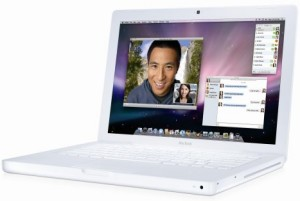
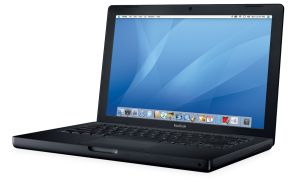
New devices

diff --git a/assets/css/main.css b/assets/css/main.css
@@ -259,6 +259,7 @@ table li {
     margin: 0 auto;
     height: 120px;
     width: auto;
+    max-width: 100%;
 }
 
 .device-specs {

diff --git a/_devices/Samsung/Q1u.md b/_devices/Samsung/Q1u.md
@@ -1,0 +1,20 @@
+---
+layout: device
+title: Samsung Q1 Ultra
+manufacturer: Samsung
+type: Tablet
+tags: computer tablet umpc
+image: Q1u.jpg
+spec-cpu: Intel Stealey A110 (800 MHz)
+spec-chipset: Intel 915
+spec-gpu: Intel GMA 950
+spec-display: 7" 1024x600 LCD LED
+spec-touch: Resistive (USB eGalaxTouch)
+spec-audio: Realtek HD Audio <br>
+    Stereo speakers, dual microphones, retasking on jack
+spec-ram: 1 GB DDR2 SO-DIMM
+spec-storage: 64 GB SSD in mSATA to IDE ZIF adapter
+spec-wlan: 802.11 b/g Atheros Mini PCIe card
+spec-bt: 2.0 + EDR Broadcom
+spec-battery: 6-cell extended Samsung battery
+---

diff --git a/_devices/Apple/MacBook/2008.md b/_devices/Apple/MacBook/2008.md
@@ -1,0 +1,19 @@
+---
+layout: device
+title: MacBook (13" Early 2008)
+release-date: 2008
+image: images/2008.jpg
+manufacturer: Apple
+brand: MacBook
+type: Laptop
+tags: computer laptop
+spec-color: White
+spec-ram: 1 GB DDR2
+spec-cpu: Intel Core 2 Duo T8100 @ 2.1 GHz
+spec-gpu: Intel GMA X3100
+spec-storage: 160 GB SATA HDD
+spec-display: 13.3" 1280x800 TN (CCFL)
+model: A1181 2242
+links: |
+    - [EveryMac](https://everymac.com/systems/apple/macbook/specs/macbook-core-2-duo-2.1-white-13-early-2008-penryn-specs.html)
+---

diff --git a/_devices/Apple/Mac/mini2009.md b/_devices/Apple/Mac/mini2009.md
@@ -1,0 +1,18 @@
+---
+layout: device
+title: Mac mini (Late 2009)
+release-date: 2009
+image: images/mini2009.jpg
+manufacturer: Apple
+brand: Mac
+type: Laptop
+tags: computer mini-pc
+spec-color: White
+spec-ram: 4 GB DDR3 (upgraded)
+spec-cpu: Intel Core 2 Duo P7550 @ 2.26 GHz
+spec-gpu: NVIDIA GeForce 9400M
+spec-storage: 250 GB SATA HDD (upgraded)
+model: A1283 2336
+links: |
+    - [EveryMac](https://everymac.com/systems/apple/mac_mini/specs/mac-mini-core-2-duo-2.26-late-2009-specs.html)
+---

diff --git a/_devices/Apple/MacBook/2007.md b/_devices/Apple/MacBook/2007.md
@@ -1,9 +1,19 @@
 ---
 layout: device
 title: MacBook (13" Mid 2007)
+release-date: 2007
 image: images/2007.jpg
 manufacturer: Apple
 brand: MacBook
 type: Laptop
 tags: computer laptop
+spec-color: Black
+spec-ram: 2 GB DDR2 (upgraded)
+spec-cpu: Intel Core 2 Duo T7400 @ 2.16 GHz
+spec-gpu: Intel GMA 950
+spec-storage: 160 GB SATA HDD
+spec-display: 13.3" 1280x800 TN (CCFL)
+model: A1181 2139
+links: |
+    - [EveryMac](https://everymac.com/systems/apple/macbook/specs/macbook-core-2-duo-2.16-black-13-mid-2007-specs.html)
 ---

diff --git a/_devices/Apple/iPhone/3G.md b/_devices/Apple/iPhone/3G.md
@@ -1,0 +1,9 @@
+---
+layout: device
+title: iPhone 3G
+image: images/3G.jpg
+manufacturer: Apple
+brand: iPhone
+type: Smartphone
+tags: smartphone
+---

diff --git a/_devices/HTC/HD2-2.md b/_devices/HTC/HD2-2.md
@@ -1,0 +1,9 @@
+---
+layout: device
+title: HD2 (2)
+image: images/HD2.jpg
+manufacturer: HTC
+type: Smartphone
+tags: mobile-device smartphone pocket-pc
+spec-os: Windows Mobile 6.5
+---

diff --git a/_devices/Apple/iPad/2.md b/_devices/Apple/iPad/2.md
@@ -11,5 +11,5 @@ spec-cpu: Apple A5
 spec-display: 9.7" 768x1024 IPS LCD
 spec-wifi: 802.11a/b/g/n (Broadcom BCM4329)
 spec-bt: 2.1+EDR
-color: Black
+spec-color: Black
 ---

diff --git a/_devices/Apple/iPod/nano-2nd.md b/_devices/Apple/iPod/nano-2nd.md
@@ -3,7 +3,7 @@ layout: device
 title: iPod nano (2nd Gen)
 image: images/nano-2nd.jpg
 manufacturer: Apple
-brand: iPod
+brand: iPod nano
 type: Media Player
 tags: media-player
 spec-color: Silver